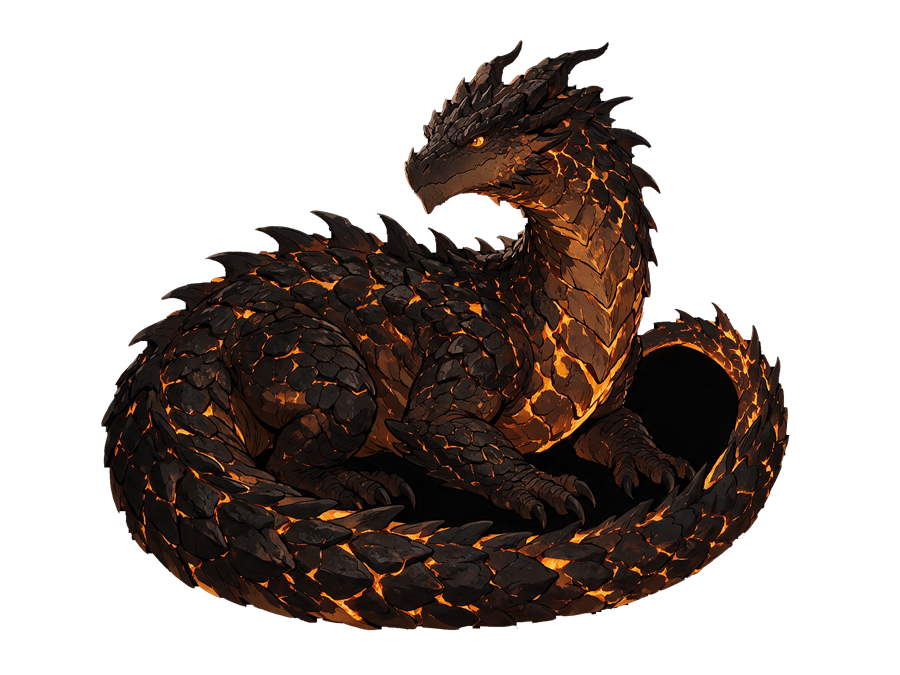
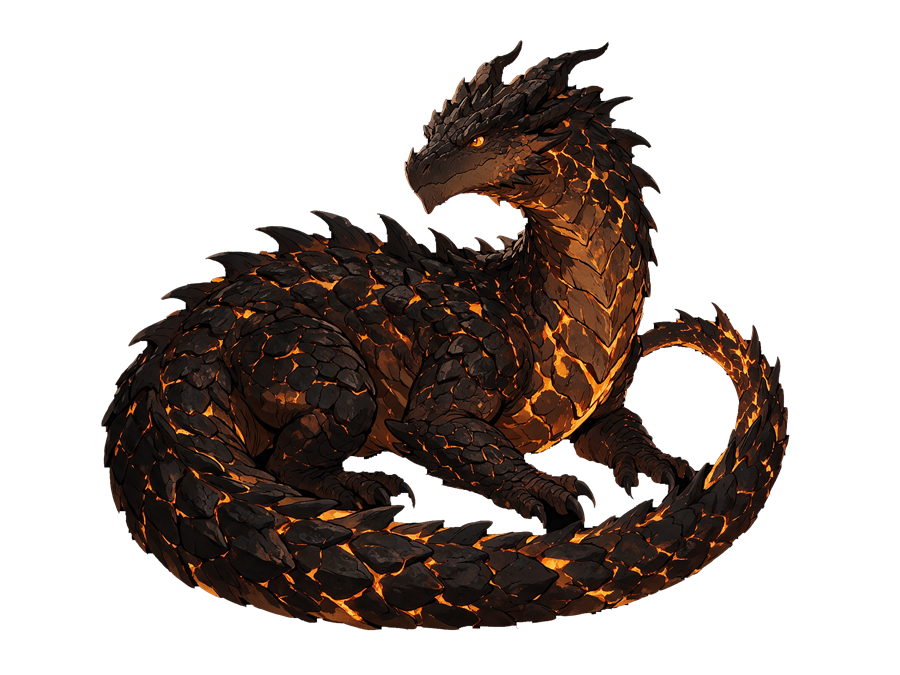
Key the enclosed pockets too, not just the backdrop
The negative space inside the tail loop stayed black, because a fill that
starts at the border can never reach a region the creature encloses. It
is background you should see through, it just is not connected to any
edge.

So step 3 no longer floods from the border -- it walks every connected
component of the thick-dark mask and treats them all as background,
enclosed or not. What stops that eating the artwork is size: a pocket
smaller than -HolePercent of the frame is a deep shadow between the
scales and stays part of the body. Thickness told background from body;
area now tells a gap from a shadow.

Verified: the tail-loop interior is A=0 at three points, and every body
sample including the near-black scales (rgb 12,5,3) is still A=255.
Transparent area 58% -> 62%.

Changed region(s): [[0.3733, 0.4978, 0.84, 0.8089]]

diff --git a/index.html b/index.html
@@ -20,7 +20,7 @@
 <link rel="manifest" href="manifest.json">
 <link rel="icon" type="image/svg+xml" href="icon.svg">
 <link rel="apple-touch-icon" href="icon-192.png">
-<link rel="stylesheet" href="style.css?v=191">
+<link rel="stylesheet" href="style.css?v=192">
 </head>
 <body>
 <header>
@@ -48,6 +48,6 @@
   </div>
 </main>
 
-<script src="game.js?v=191"></script>
+<script src="game.js?v=192"></script>
 </body>
 </html>

diff --git a/solver.html b/solver.html
@@ -48,8 +48,8 @@
     <p>Loading…</p>
   </div>
 
-  <script src="game.js?v=191"></script>
-  <script src="solver.js?v=191"></script>
-  <script src="measure.js?v=191"></script>
+  <script src="game.js?v=192"></script>
+  <script src="solver.js?v=192"></script>
+  <script src="measure.js?v=192"></script>
 </body>
 </html>
